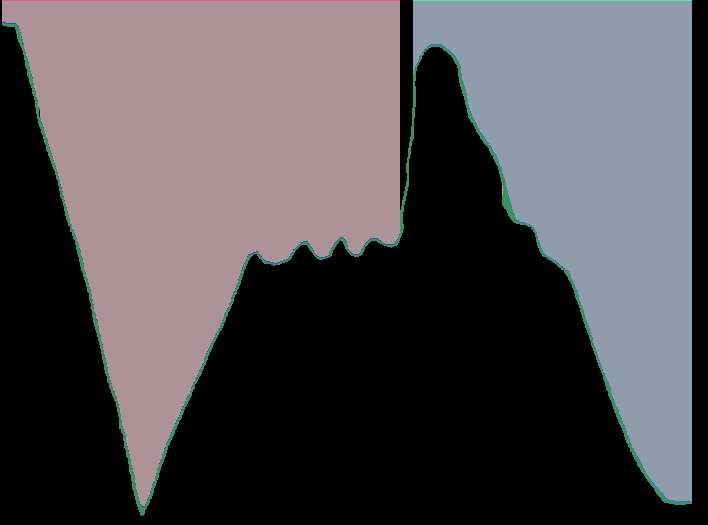
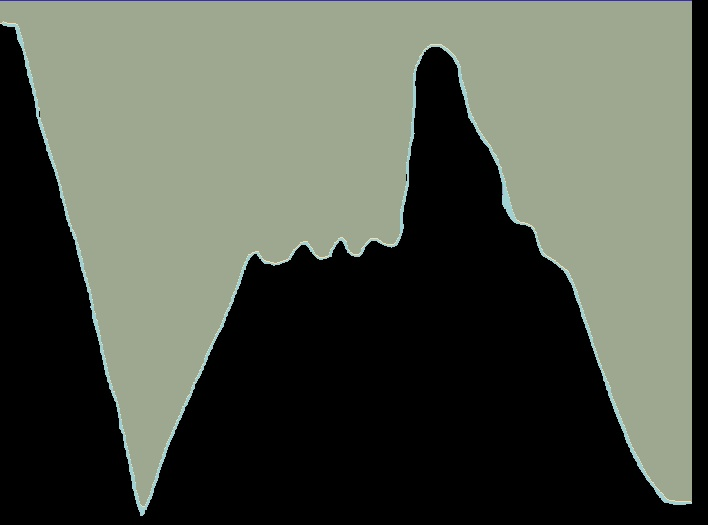
created preview file of what the axi will plot

diff --git a/src/previewDoodles.py b/src/previewDoodles.py
@@ -1,0 +1,193 @@
+import math
+import numpy as np
+from PIL import Image, ImageDraw
+import random as rand
+
+
+def drawBird(draw, x, y, birdScale, bend):
+    draw.arc([x-birdScale, y-birdScale, x+birdScale, y+birdScale], start=270-bend, end=270+bend, fill = 0)
+    offset = 2 * birdScale * np.cos(math.radians(90-bend))
+    draw.arc([x+(offset-birdScale), y-birdScale, x+(offset+birdScale), y+birdScale], start=270-bend, end=270+bend, fill = 0)
+
+
+
+def drawTree(draw, i, x, y, maxh):
+    h = rand.uniform(3, maxh)  #height of trunk
+    draw.line([x, y, x, y-h], fill=0)
+    r = rand.uniform(h/7, h/2)  #radius of crown
+    #circle(x, y + h, r)  #draw crown
+    draw.ellipse([x-r, (y-h)-r, x+r, (y-h)+r], outline=0)
+    # if r > maxh/1.5 and rand.random() < 0.2:  #if crown is big add branches
+    #     axi.moveto(x, (y+h)-rand.uniform(r/2.2, r/8))
+    #     axi.lineto(x-r/6,  y+h-rand.uniform(-r/8, r/8))
+    #     axi.moveto(x, (y+h)-rand.uniform(r/2.2, r/8))
+    #     axi.lineto(x+r/6,  y+h-rand.uniform(-r/8, r/8))
+    #     axi.moveto(x, y+h)
+    #     axi.lineto(x, y+h+r/8)
+
+    # elif r > maxh/1.5 and rand.random() < 0.2:
+    #     arc(x, y+h, r/2, r/2, np.pi/2, 3*(np.pi)/2, True)
+    #     axi.moveto(x, y+h)
+    #     axi.lineto(x, y+h+r/8)
+
+    return i+int(r)+1
+
+
+
+def drawStriation(draw, tracedLine, i, x, y, minStria, maxStria):
+    isStria = True
+    for c in range(minStria):
+        if i+c >= len(tracedLine):
+            isStria = False
+            break
+
+        if y < tracedLine[i+c][0]:
+            isStria = False
+    
+    rX = -1
+    if isStria:
+        for c in range(minStria, maxStria):
+            if i+c >= len(tracedLine):
+                break
+
+            if y < tracedLine[i+c][0]:
+                rX = i + c
+                break
+    
+    if rX != -1:
+        print("Drawing: Striation")
+        draw.line([x, y, tracedLine[rX][1], y], fill=0)
+
+
+
+
+def drawBoats(draw, lineArr, startIdx, x, y, waveLen, endIdx):
+    lakeW = (endIdx - startIdx)
+    waveNum = int(lakeW/waveLen)
+    leftOver = lakeW%waveLen
+    waveD = waveLen + leftOver/waveNum
+
+    draw.line([x, y, x+waveD, y])  #maybe remove?
+
+    boatloc = int(rand.randrange(0, int((waveNum-2)*2)))
+    for i in range(waveNum-2):
+
+        #draw one wave
+        xminBound = x+waveD*(i+1)
+        draw.arc([xminBound, y-waveD/2, xminBound+waveD, y+waveD/2], 0, 180, fill = 0)
+                
+        if i == boatloc:  #generate boats
+            print("Drawing: Boat")
+            boatScale = (3*waveLen + waveNum/7)/2  #half the total length of the hull of the boat
+            boatX = x+waveD*i+waveD*1.5
+            boatY = y - boatScale/4
+            sailDir = rand.random() < 0.5
+            
+            #draw hull
+            draw.arc([boatX-boatScale, boatY-boatScale/2, boatX+boatScale, boatY+boatScale/2], 0, 180, fill = 0)
+            draw.line([boatX-boatScale, boatY, boatX+boatScale, boatY])
+
+            #draw sail
+            if sailDir:
+                draw.polygon([boatX-boatScale/3, boatY, boatX-boatScale/3, boatY-(2*boatScale), boatX+(2/3)*boatScale, boatY])
+            else:
+                draw.polygon([boatX+boatScale/3, boatY, boatX+boatScale/3, boatY-(2*boatScale), boatX-(2/3)*boatScale, boatY])
+
+    draw.line([lineArr[endIdx][1]-waveD, y, lineArr[endIdx][1], y])  #maybe remove?
+
+
+
+def drawLake(draw, tracedLine, i, x, y, minLake, maxLake, waveLen):
+    isLake = True
+    for c in range(minLake):
+        if i+c >= len(tracedLine):
+            isLake = False
+            break
+
+        if y > tracedLine[i+c][0]:
+            isLake = False
+    
+    endIdx = 0
+    if isLake:
+        for c in range(minLake, maxLake):
+            if i+c >= len(tracedLine):
+                break
+
+            if y > tracedLine[i+c][0]:
+                endIdx = i + c
+                break
+    
+    if endIdx != 0:
+        print("Drawing: Lake")
+        drawBoats(draw, tracedLine, i, x, y, waveLen, endIdx)
+
+    return endIdx
+
+
+
+def drawTower(draw, tracedLine, i):
+    #find left and right wall of tower
+    l = i - rand.randrange(1, 4)
+    r = i + rand.randrange(1, 4)
+
+    #make sure tower sides are in bounds of tracedLine
+    l = max(0, l)
+    r = min(len(tracedLine) - 1, r)
+
+    #determines dimensions of tower
+    lx = tracedLine[l][1]
+    ly = tracedLine[l][0]
+    rx = tracedLine[r][1]
+    ry = tracedLine[r][0]
+    h = (tracedLine[r][0]) - rand.uniform(6, 30)
+    w = rx-lx
+
+    draw.line([lx, ly, lx, h])
+    draw.line([rx, ry, rx, h])
+
+    
+    if rand.random() < 0.3:  #square roof
+        wh = w * rand.uniform(0.2, 1.2)  #roof overhang
+        ht = wh*rand.uniform(0.5, 1.5)  #roof height
+        draw.rectangle([lx-wh, h-ht, rx+wh, h], fill = None)
+        d = rx+wh+1
+        
+    else:  #triangular roof
+        wt = w * rand.uniform(1.2, 2.2)  #roof width
+        ht = min((ry - h)/1.5, w*rand.uniform(0.7, 3))  #roof height
+        draw.polygon([(lx+rx)/2 - wt/2, h, (lx+rx)/2 + wt/2, h, (lx+rx)/2, h - ht])
+        d = i + int(wt/2)+1
+
+    return d
+
+
+def drawVillage(draw, tracedLine, i):
+        c = 0
+        while abs(tracedLine[i+c][0] - tracedLine[i+c+1][0]) < 2:
+            print("Drawing: Village House")
+            w = rand.randint(3, 10)  #house walls width
+            if i + c + 8 >= len(tracedLine):  #end village if too close to end of line
+                break
+
+            hb = tracedLine[i+c][0] - rand.uniform(4, 12)  #house walls height
+
+            #coords of the base of left and right walls
+            lx = tracedLine[i+c][1]
+            ly = tracedLine[i+c][0]
+            rx = tracedLine[i+c+w][1]
+            ry = tracedLine[i+c+w][0]
+
+            #draw walls of house
+            draw.line([lx, ly, lx, hb])
+            draw.line([rx, ry, rx, hb])
+
+            wt = w*rand.uniform(1, 1.4)
+            ht = wt*rand.uniform(0.4, 0.7)
+
+            # draw house roof
+            draw.polygon([(lx+rx)/2 - (wt/2), hb, (lx+rx)/2 + (wt/2), hb, (lx+rx)/2, hb - ht])
+
+            c+=rand.randint(2, 5)  #start position of next house
+        
+        d = i+c+1
+        return d

diff --git a/src/collaborator.py b/src/collaborator.py
@@ -3,13 +3,14 @@ import numpy as np
 import random as rand
 import math
 from pyaxidraw import axidraw
-from scipy.interpolate import splprep, splev
 from scipy.ndimage import convolve
 import argparse
 import imageConverter as imgc
 from imageConverter import Island
 import axiDoodles as do
+import previewDoodles as pr
 import threading
+from PIL import Image, ImageDraw
 
 
 
@@ -17,7 +18,7 @@ import threading
 xDef = 4656  #resolution of the camera
 yDef = 3496
 
-thresh = 180  #higher means more land
+thresh = 140  #higher means more land
 
 #controls the size of the cropped in image
 cropXmin = 1965
@@ -119,11 +120,12 @@ def drawLandscape(tracedLine):
     global isDrawing
     isDrawing = True
 
+
     #gets the set of points that the axidraw will consider to be the hand drawn line
     if tracedLine == None:
         print("failed to find line")
         axi.moveto(0, 0)
-        return
+        return    
 
     #AXIDRAW
     axi.moveto(0, 0)
@@ -182,6 +184,65 @@ def drawLandscape(tracedLine):
     axi.moveto(0, 0)
     isDrawing = False
 
+
+def previewLandscape(tracedLine, draw):
+    global isDrawing
+    isDrawing = True
+
+    d = 0
+    xMin = tracedLine[0][0]
+    xMax = tracedLine[-1][0]
+    for i in range(len(tracedLine)):
+        if i > d:
+            alignTest = False
+            [y, x] = tracedLine[i]
+            if rand.random() < 0.1:
+                print("Attempting: Striation")
+                pr.drawStriation(draw, tracedLine, i, x, y, 15, 100)
+
+            birdScale = 3
+            if rand.random() < 0.01 and y > 2*birdScale:
+                print("Drawing: Bird")
+                pr.drawBird(draw, x, rand.uniform(10, (y-3*birdScale)), birdScale, 60)
+
+            #generate flocks    
+            if rand.random() < 0.003 and y > 2+3*birdScale:
+                print("Drawing: Flock")
+                stepSize = birdScale*10
+                birdx = x
+                birdy = rand.uniform(10, (y-3*birdScale))
+                for i in range(rand.randrange(5, 30)):
+                    birdx += rand.uniform(-1*stepSize, stepSize)
+                    birdy += rand.uniform(-1*stepSize*S, stepSize*S)
+                    pr.drawBird(draw, birdx, birdy, birdScale, 60)
+
+
+            featureGen = rand.random()
+            if featureGen < 0.06:  # 6%
+                print("Drawing: Tree")
+                alignTest = True
+                d = pr.drawTree(draw, i, x, y, 30)
+            elif featureGen < 0.1: # 4%
+                print("Drawing: Tower")
+                alignTest = True
+                d = pr.drawTower(draw, tracedLine, i)
+            elif featureGen < 0.13: # 3%
+                print("Attempting: Village")
+                alignTest = True
+                d = pr.drawVillage(draw, tracedLine, i)
+            elif featureGen < 0.16: # 3%
+                print("Attempting: Lake")
+                d = pr.drawLake(draw, tracedLine, i, x, y, 20, 100, 6)
+
+            # if alignTest:
+            #     roi = frame[x-25:x+25, y-25:y+25]
+            #     cv.imshow('Working Area', roi)
+            
+
+
+    isDrawing = False
+
+
 # Test to see if new surface detection is working
 def traceSurfaces(islandList):
     global isRunning
@@ -220,9 +281,16 @@ def runCollaboration(frame):
 
     isRunning = False
 
+    #setup preview image
+    greyscaleConvert = np.where(frame == 0, 255, 0).astype(np.uint8)
+    preview = Image.fromarray(greyscaleConvert).convert("L")
+    draw = ImageDraw.Draw(preview)
+
     for island in islandList:
         for surface in island.surfaces:
-            drawLandscape(surface)
+            previewLandscape(surface, draw)
+            preview.save("./sampleImages_output/collaboration_preview.jpg")
+
 
 
 

diff --git a/src/imageConverter.py b/src/imageConverter.py
@@ -77,7 +77,7 @@ def find_surfaces(island):
             if prev[1] == cur[1]:  #if X has not increased, keep going until X increases
                 i += 1
             elif prev[1] + 1 == cur[1]:  #if X has increased by 1, we check if connected
-                if abs(prev[0] - cur[0]) <= 20:  #checks if connected
+                if abs(prev[0] - cur[0]) <= 40:  #checks if connected
                     surface.append(surfacePoints.pop(i))
                     prev = cur
                 else:
